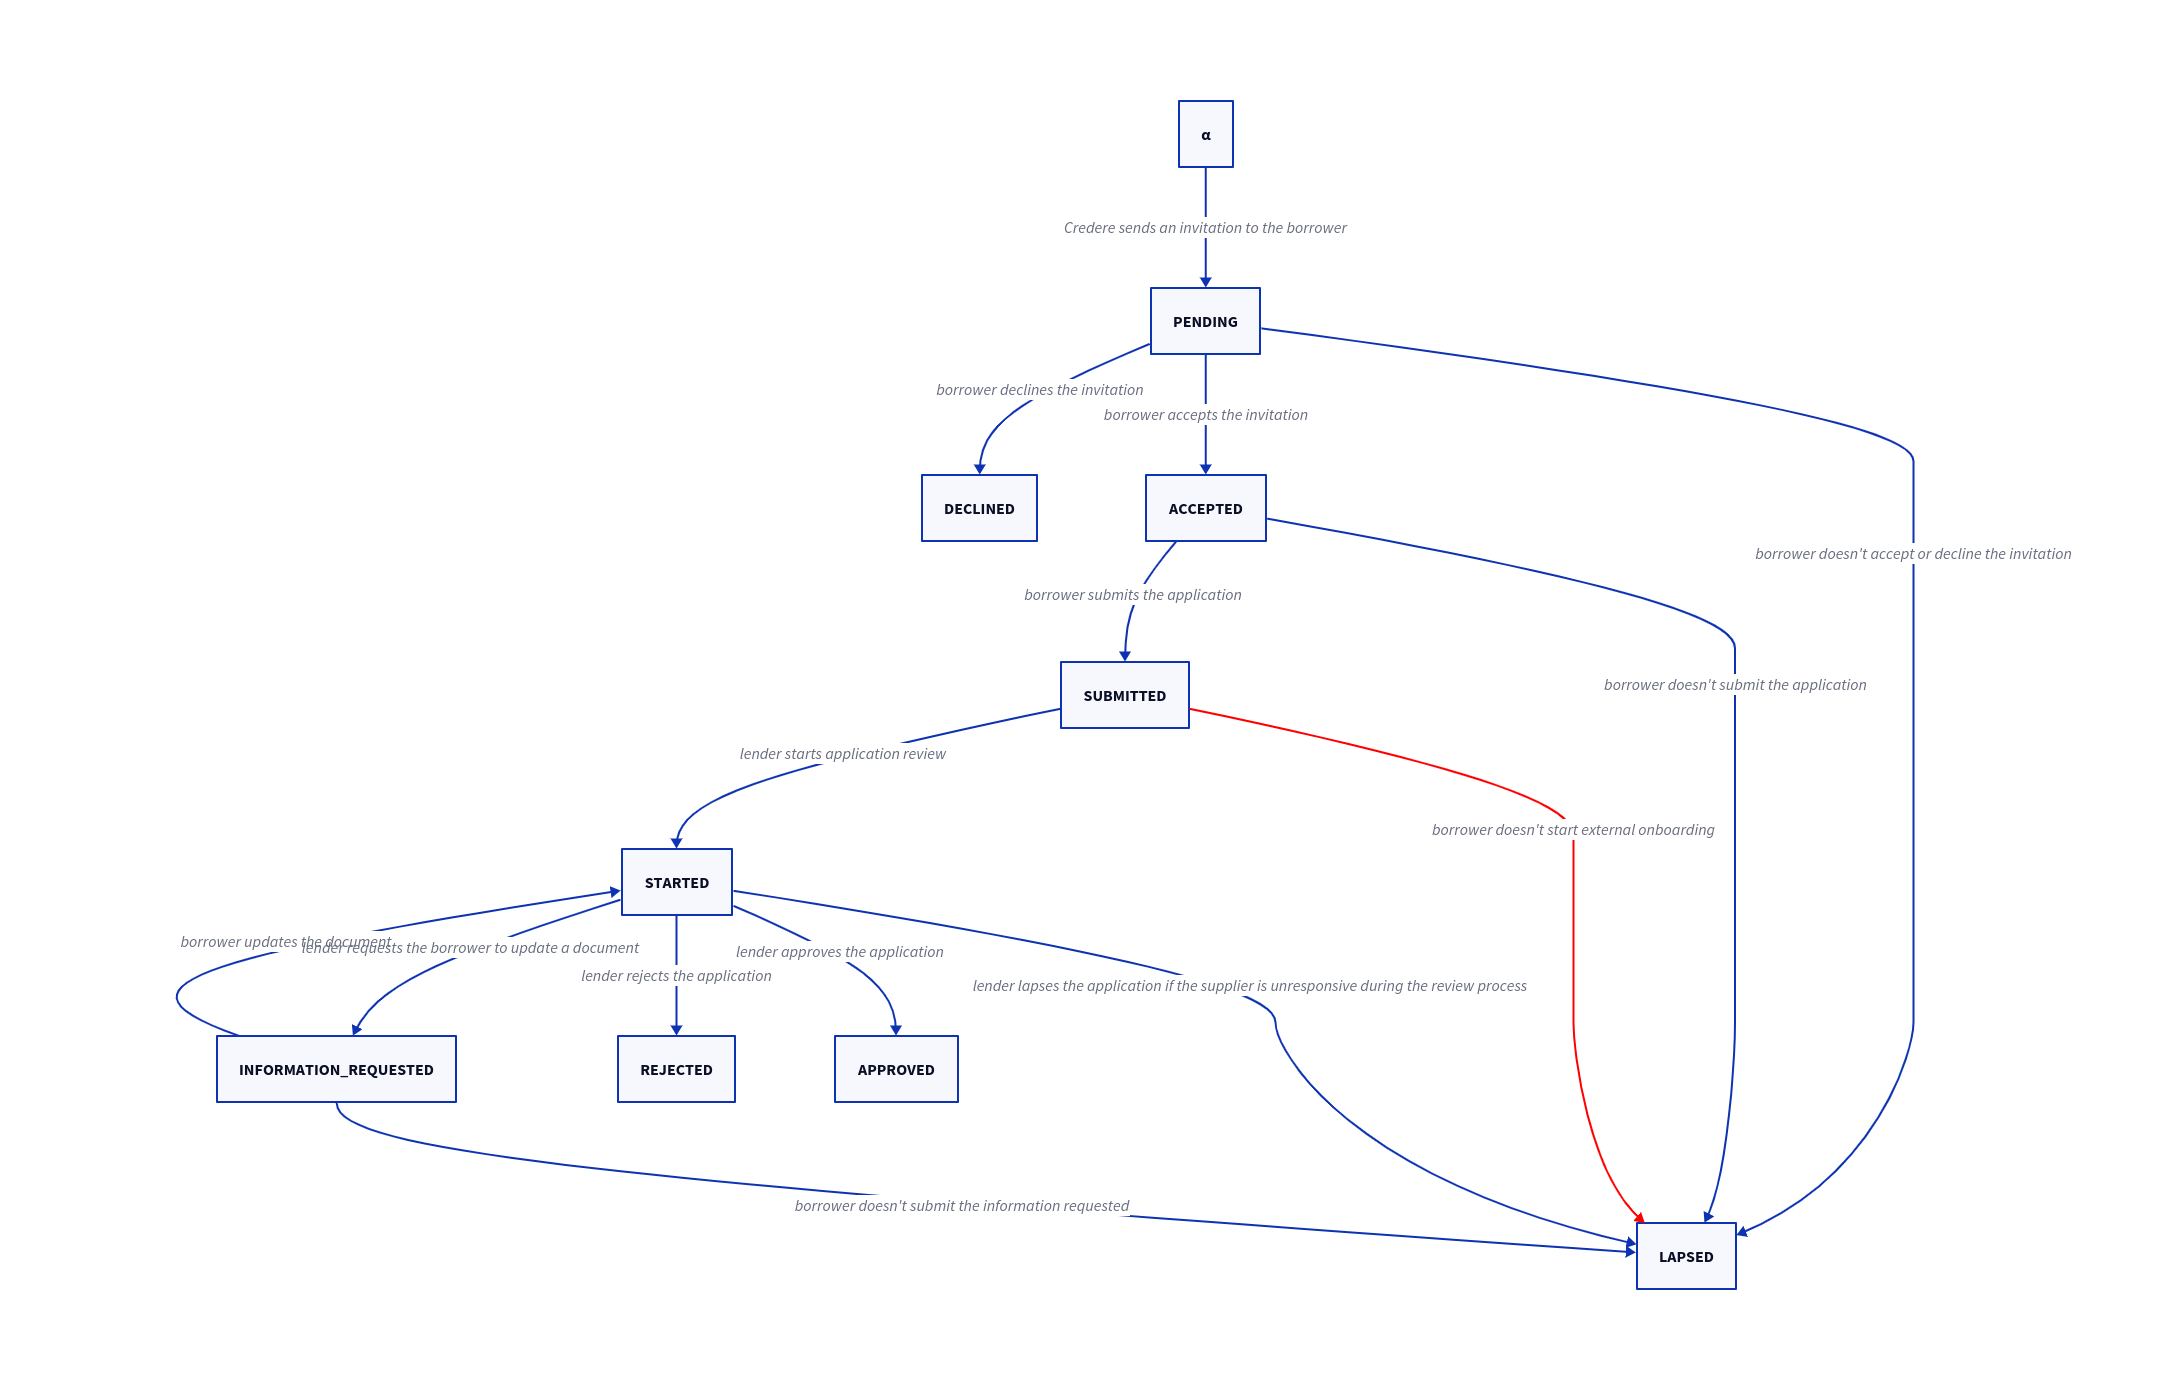
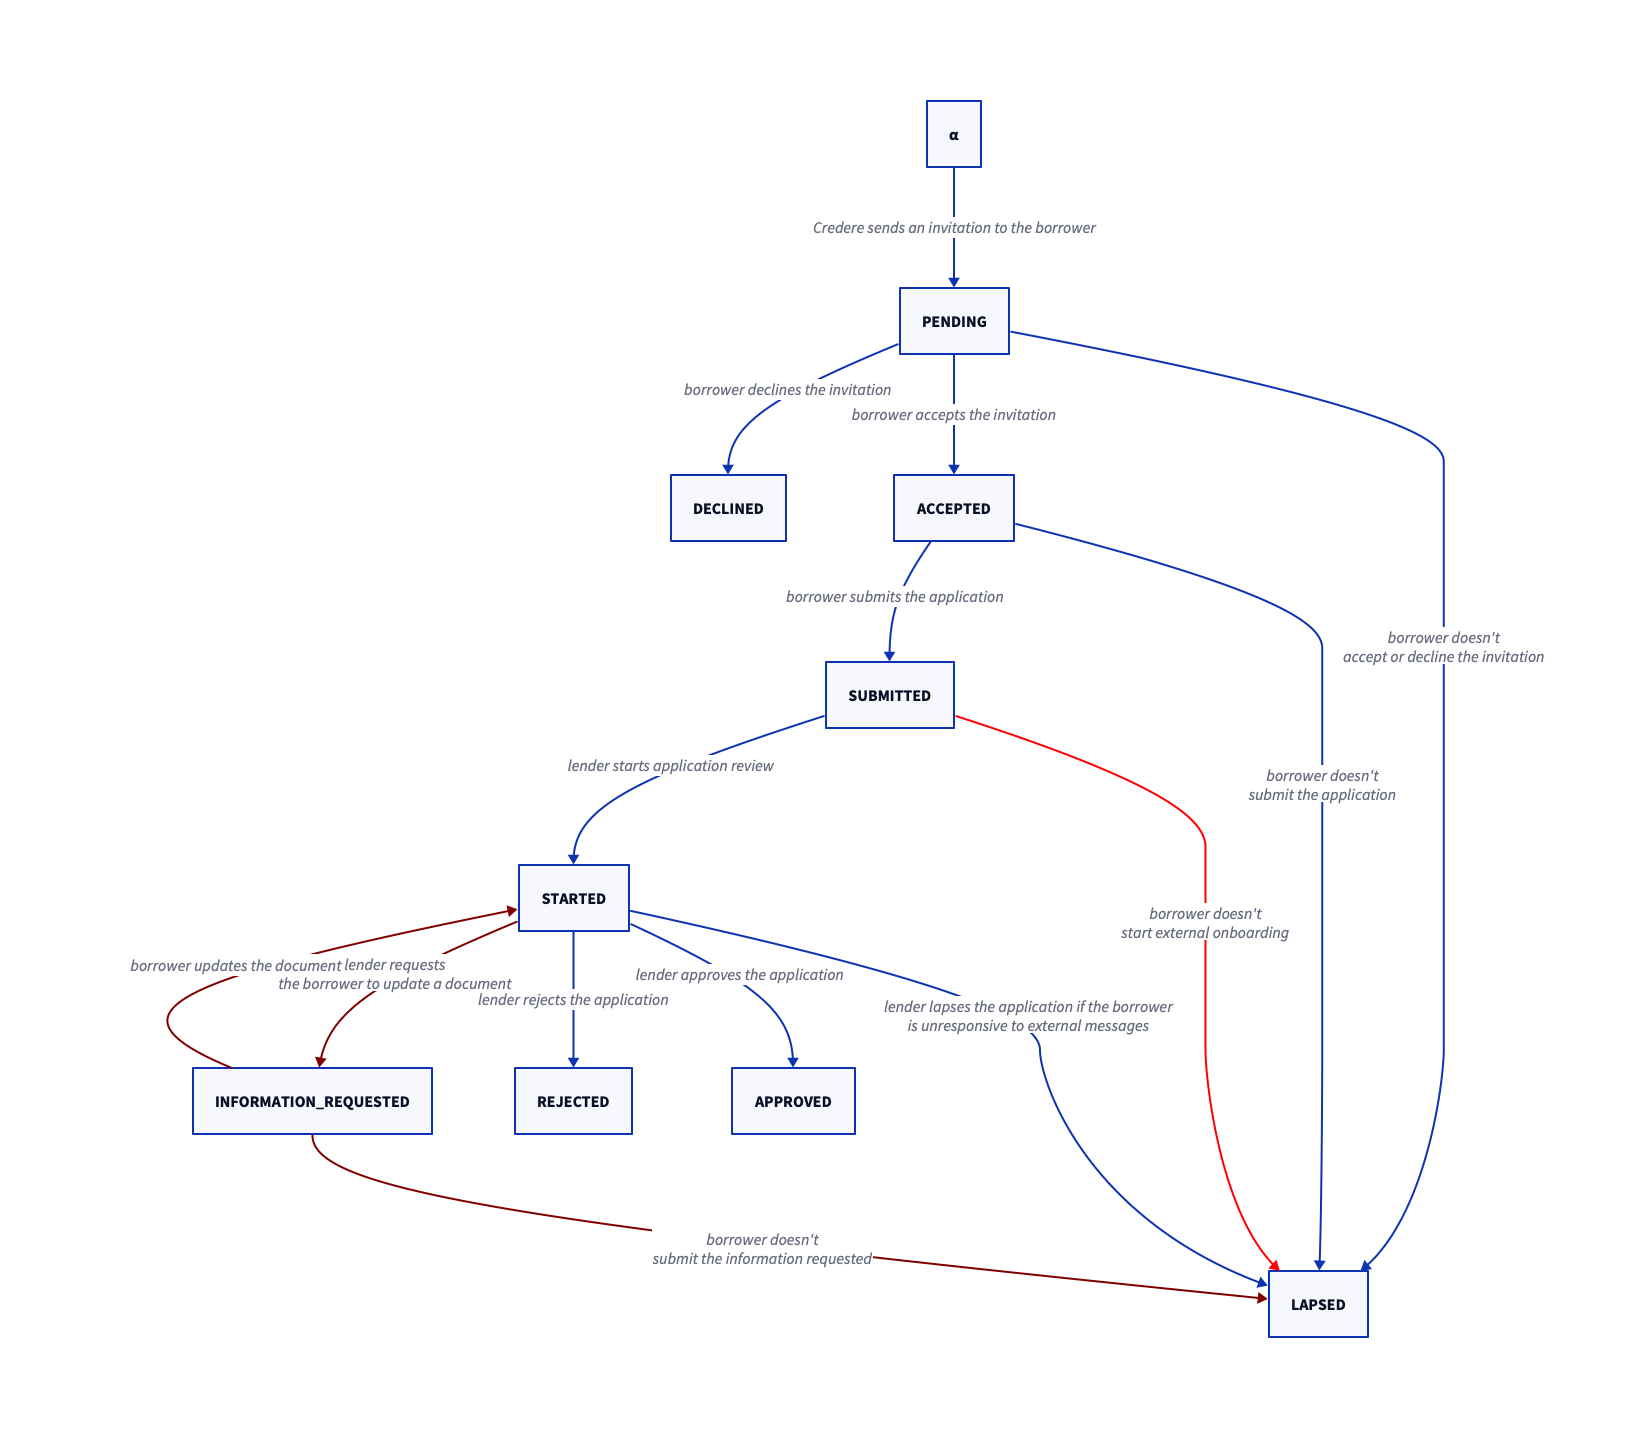
chore(nit): Fix overlap in state machine diagram

diff --git a/app/models.py b/app/models.py
@@ -173,8 +173,9 @@ class ApplicationStatus(StrEnum):
     #:
     #: (``/applications/email-sme/{id}``)
     INFORMATION_REQUESTED = i("INFORMATION_REQUESTED")
-    #: Borrower doesn't accept or decline the invitation, doesn't submit the application or information requested, or
-    #: doesn't start external onboarding while the lender hasn't started application review.
+    #: Borrower doesn't accept or decline the invitation, doesn't submit the application or information requested,
+    #: doesn't start external onboarding while the lender hasn't started application review, or doesn't respond to
+    #: the lender externally.
     #:
     #: (:typer:`python-m-app-update-applications-to-lapsed`)
     LAPSED = i("LAPSED")

diff --git a/app/routers/applications.py b/app/routers/applications.py
@@ -543,8 +543,7 @@ async def lapse_application(
         models.Application,
         Depends(
             dependencies.get_scoped_application_as_user(
-                roles=(models.UserType.FI,),
-                statuses=(models.ApplicationStatus.STARTED,),
+                roles=(models.UserType.FI,), statuses=(models.ApplicationStatus.STARTED,)
             )
         ),
     ],

diff --git a/docs/contributing/index.rst b/docs/contributing/index.rst
@@ -268,18 +268,18 @@ Application status transitions
    https://play.d2lang.com
    https://pincel.app/tools/svg-to-png
    α -> PENDING: Credere sends an invitation to the borrower
-   PENDING -> LAPSED: borrower doesn't accept or decline the invitation
+   PENDING -> LAPSED: borrower doesn't\naccept or decline the invitation
    PENDING -> DECLINED: borrower declines the invitation
    PENDING -> ACCEPTED: borrower accepts the invitation
-   ACCEPTED -> LAPSED: borrower doesn't submit the application
+   ACCEPTED -> LAPSED: borrower doesn't\nsubmit the application
    ACCEPTED -> SUBMITTED: borrower submits the application
-   SUBMITTED -> LAPSED: borrower doesn't start external onboarding {class: external}
+   SUBMITTED -> LAPSED: borrower doesn't\nstart external onboarding {class: external}
    SUBMITTED -> STARTED: lender starts application review
    STARTED -> INFORMATION_REQUESTED: lender requests\nthe borrower to update a document {class: native}
    STARTED -> REJECTED: lender rejects the application
    STARTED -> APPROVED: lender approves the application
-   STARTED -> LAPSED: lender lapses the application if the supplier is unresponsive during the review process
-   INFORMATION_REQUESTED -> LAPSED: borrower doesn't submit the information requested {class: native}
+   STARTED -> LAPSED: lender lapses the application if the borrower\nis unresponsive to external messages
+   INFORMATION_REQUESTED -> LAPSED: borrower doesn't\nsubmit the information requested {class: native}
    INFORMATION_REQUESTED -> STARTED: borrower updates the document {class: native}
    classes: {
      native.style.stroke: maroon
